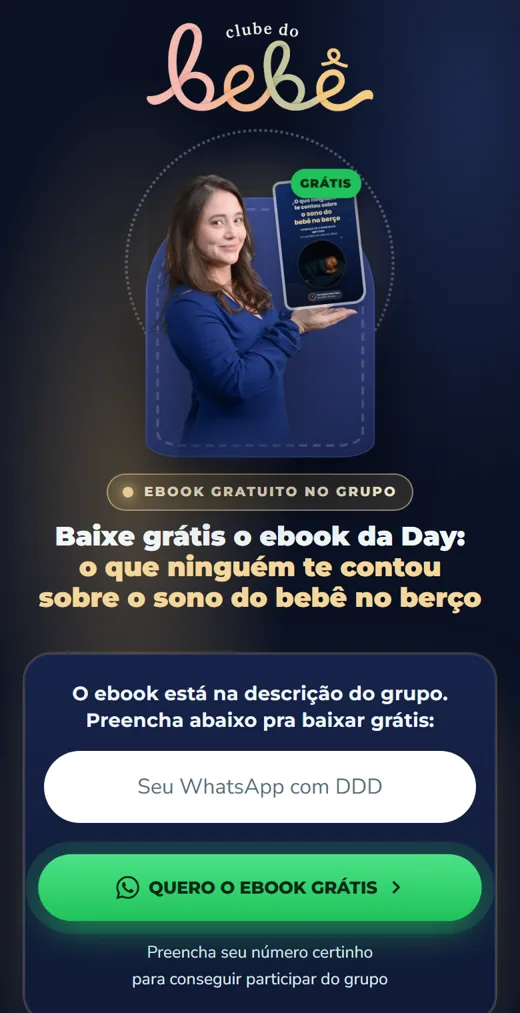
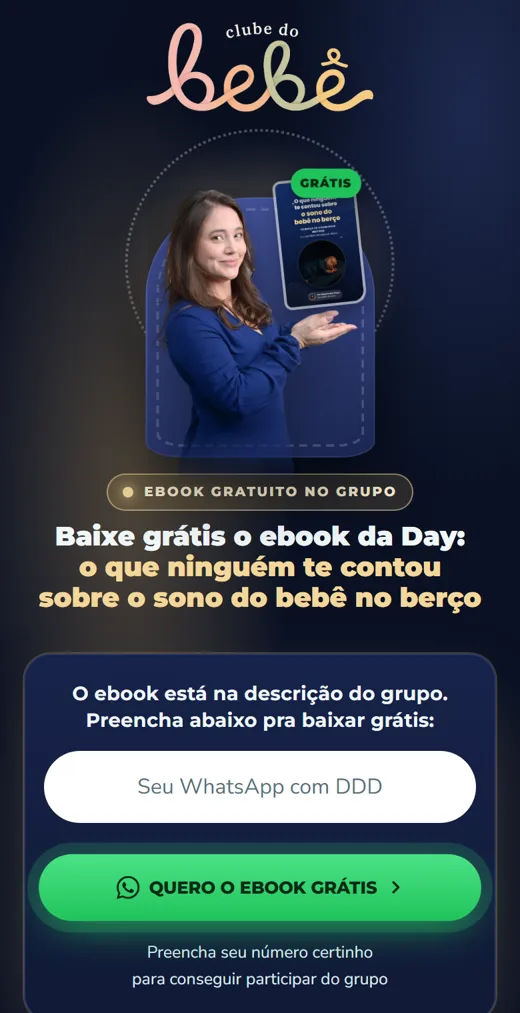
black 2026: Day mais baixa, ebook flutuando acima da mao

Changed region(s): [[0.3077, 0.153, 0.7077, 0.4284], [0.3692, 0.9181, 0.4, 0.9487], [0.2154, 0.8569, 0.2462, 0.8875]]

diff --git a/2026-10-26-black-2026/clube-do-bebe/sono-aula/index.html b/2026-10-26-black-2026/clube-do-bebe/sono-aula/index.html
@@ -245,7 +245,7 @@ footer{padding:26px 18px calc(26px + env(safe-area-inset-bottom));text-align:cen
 @media(max-width:860px){.topo-logo img{width:min(170px,46vw)}.hero{padding-top:16px}}
 .portrait img{width:84%}
 .lockup-day .portrait img{width:84%;margin-inline:0}
-.portrait img.day-ebook{width:92%;margin-left:-6%;transform:translateY(6%)}
+.portrait img.day-ebook{width:92%;margin-left:-6%;transform:translateY(11%)}
 .capa-ebook{left:62%;bottom:49%}
 </style>
 <script src="../../assets/black.js" defer></script>

diff --git a/2026-10-26-black-2026/clube-do-bebe/sono-ebook/index.html b/2026-10-26-black-2026/clube-do-bebe/sono-ebook/index.html
@@ -251,7 +251,7 @@ footer{padding:26px 18px calc(26px + env(safe-area-inset-bottom));text-align:cen
 @media(max-width:860px){.topo-logo img{width:min(170px,46vw)}.hero{padding-top:16px}}
 .portrait img{width:84%}
 .lockup-day .portrait img{width:84%;margin-inline:0}
-.portrait img.day-ebook{width:92%;margin-left:-6%;transform:translateY(6%)}
+.portrait img.day-ebook{width:92%;margin-left:-6%;transform:translateY(11%)}
 .capa-ebook{left:62%;bottom:49%}
 </style>
 <script src="../../assets/black.js" defer></script>
